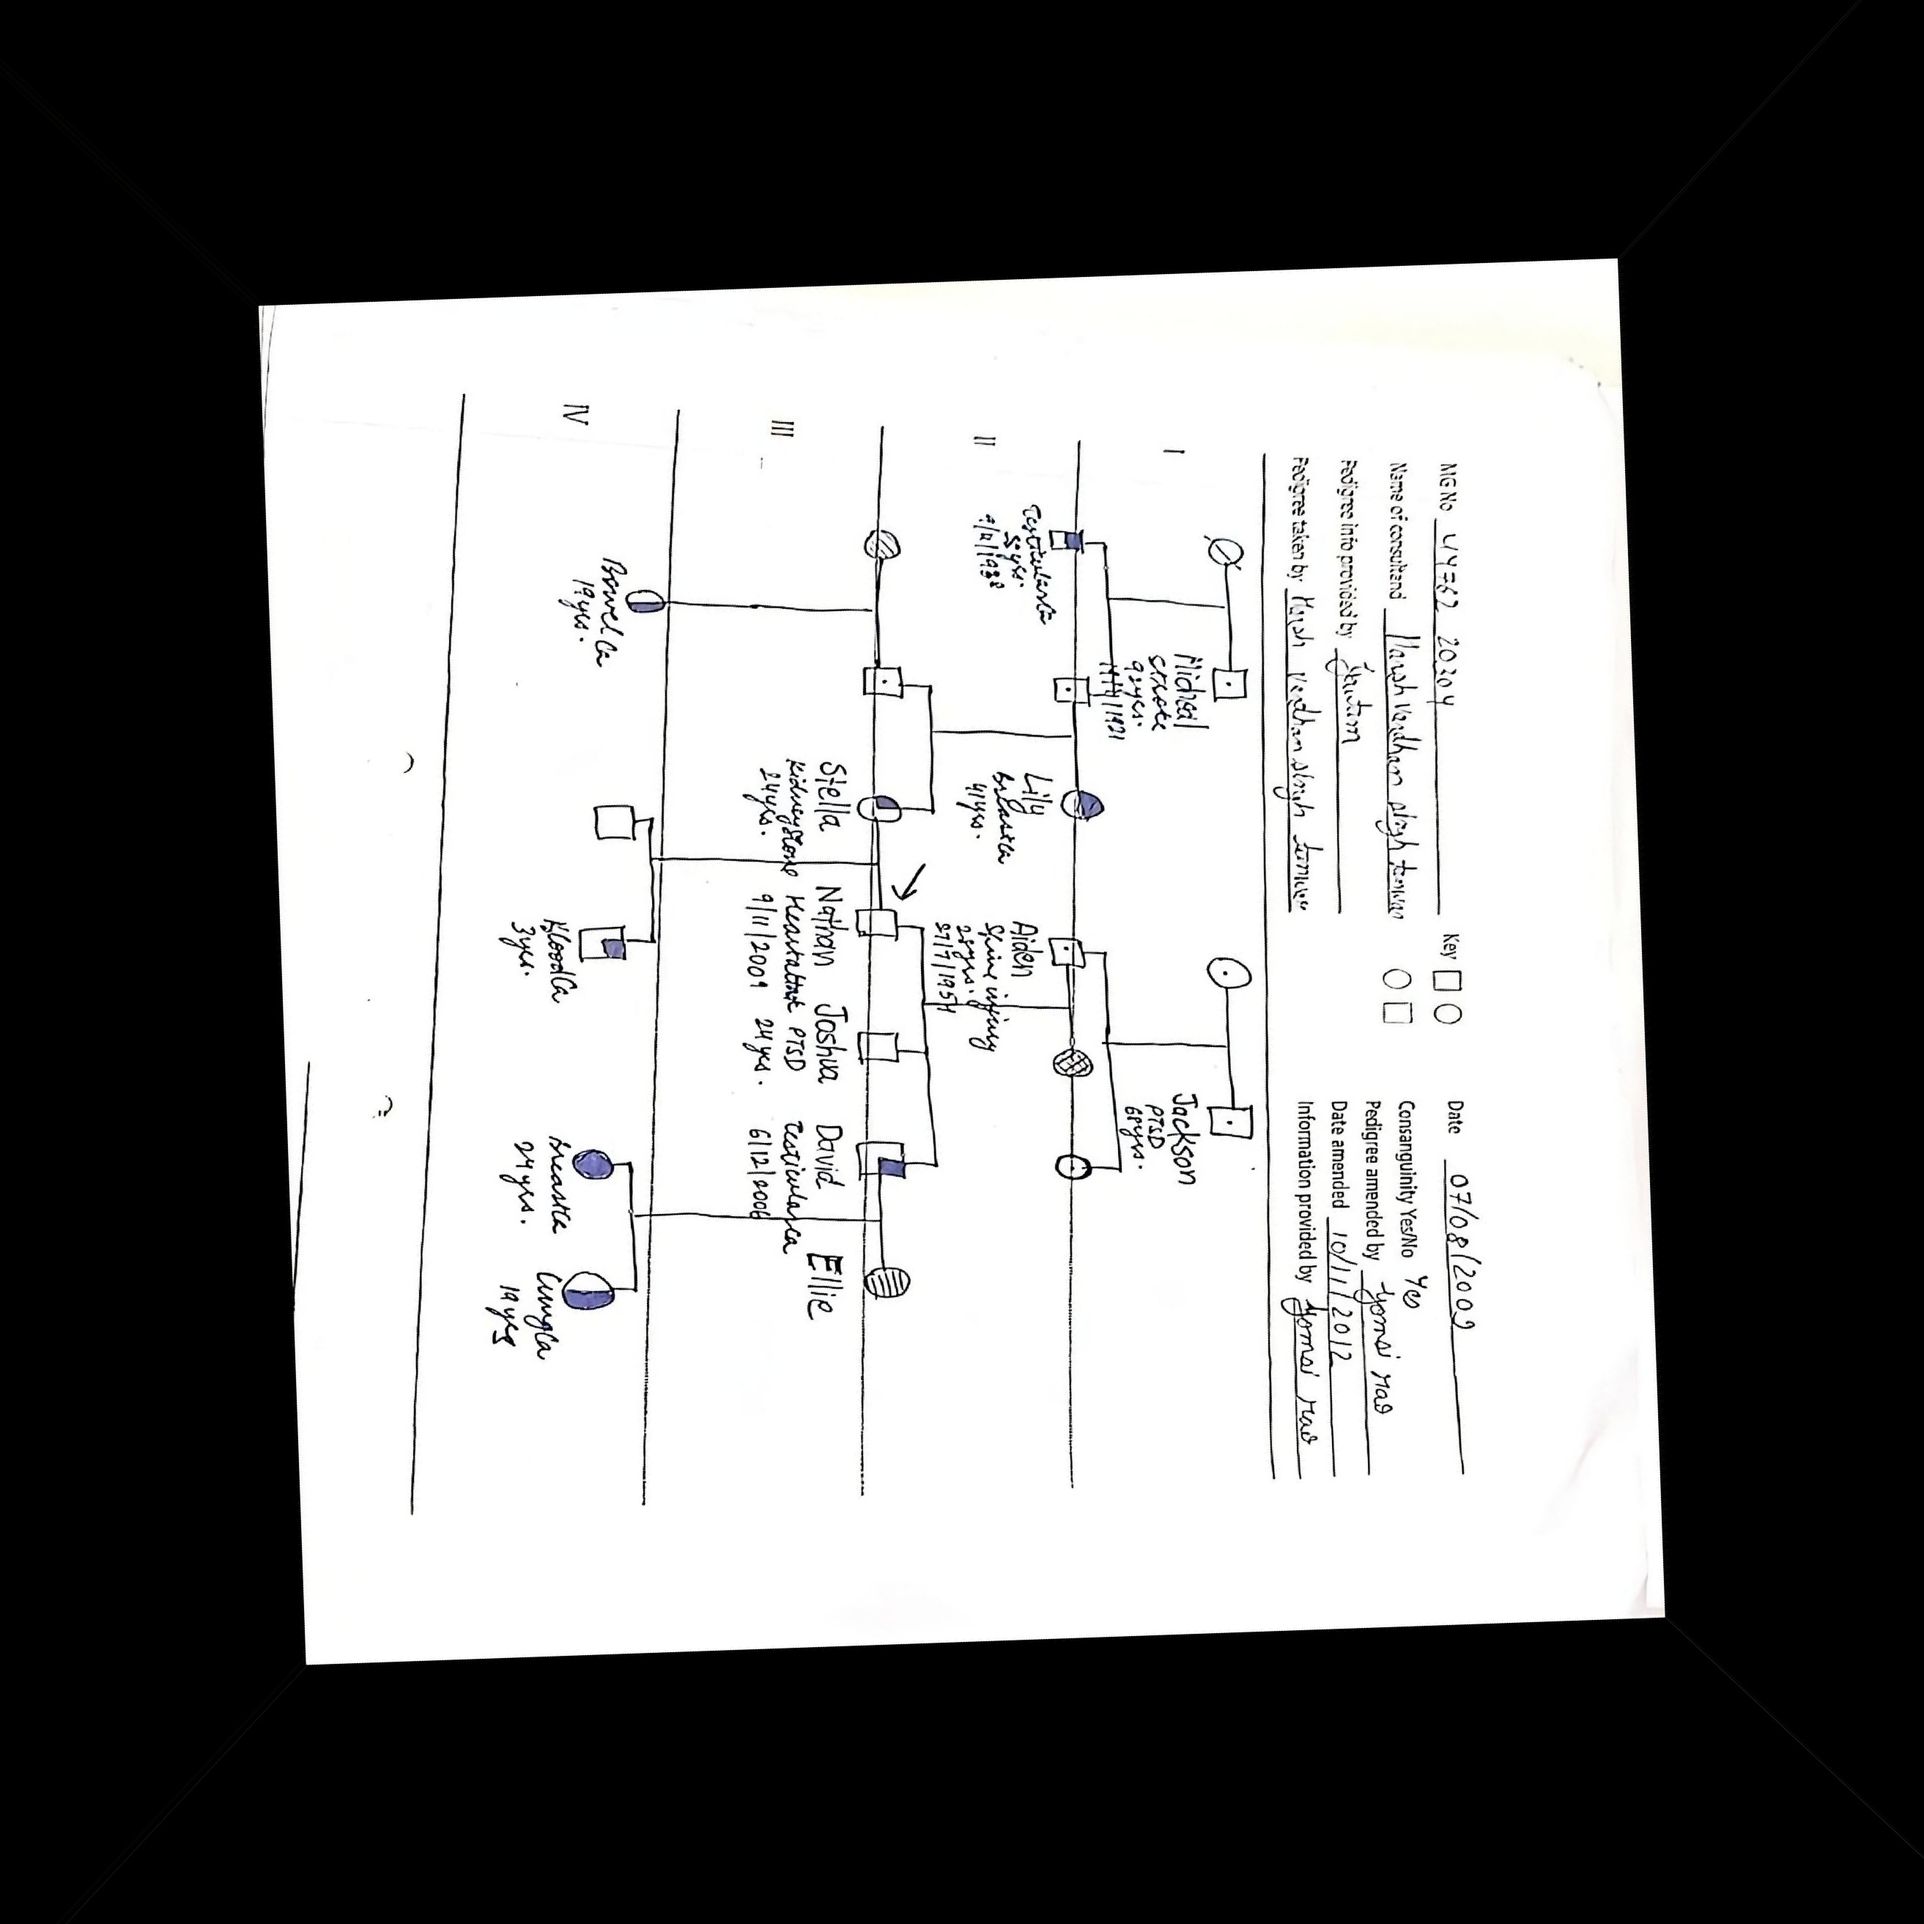
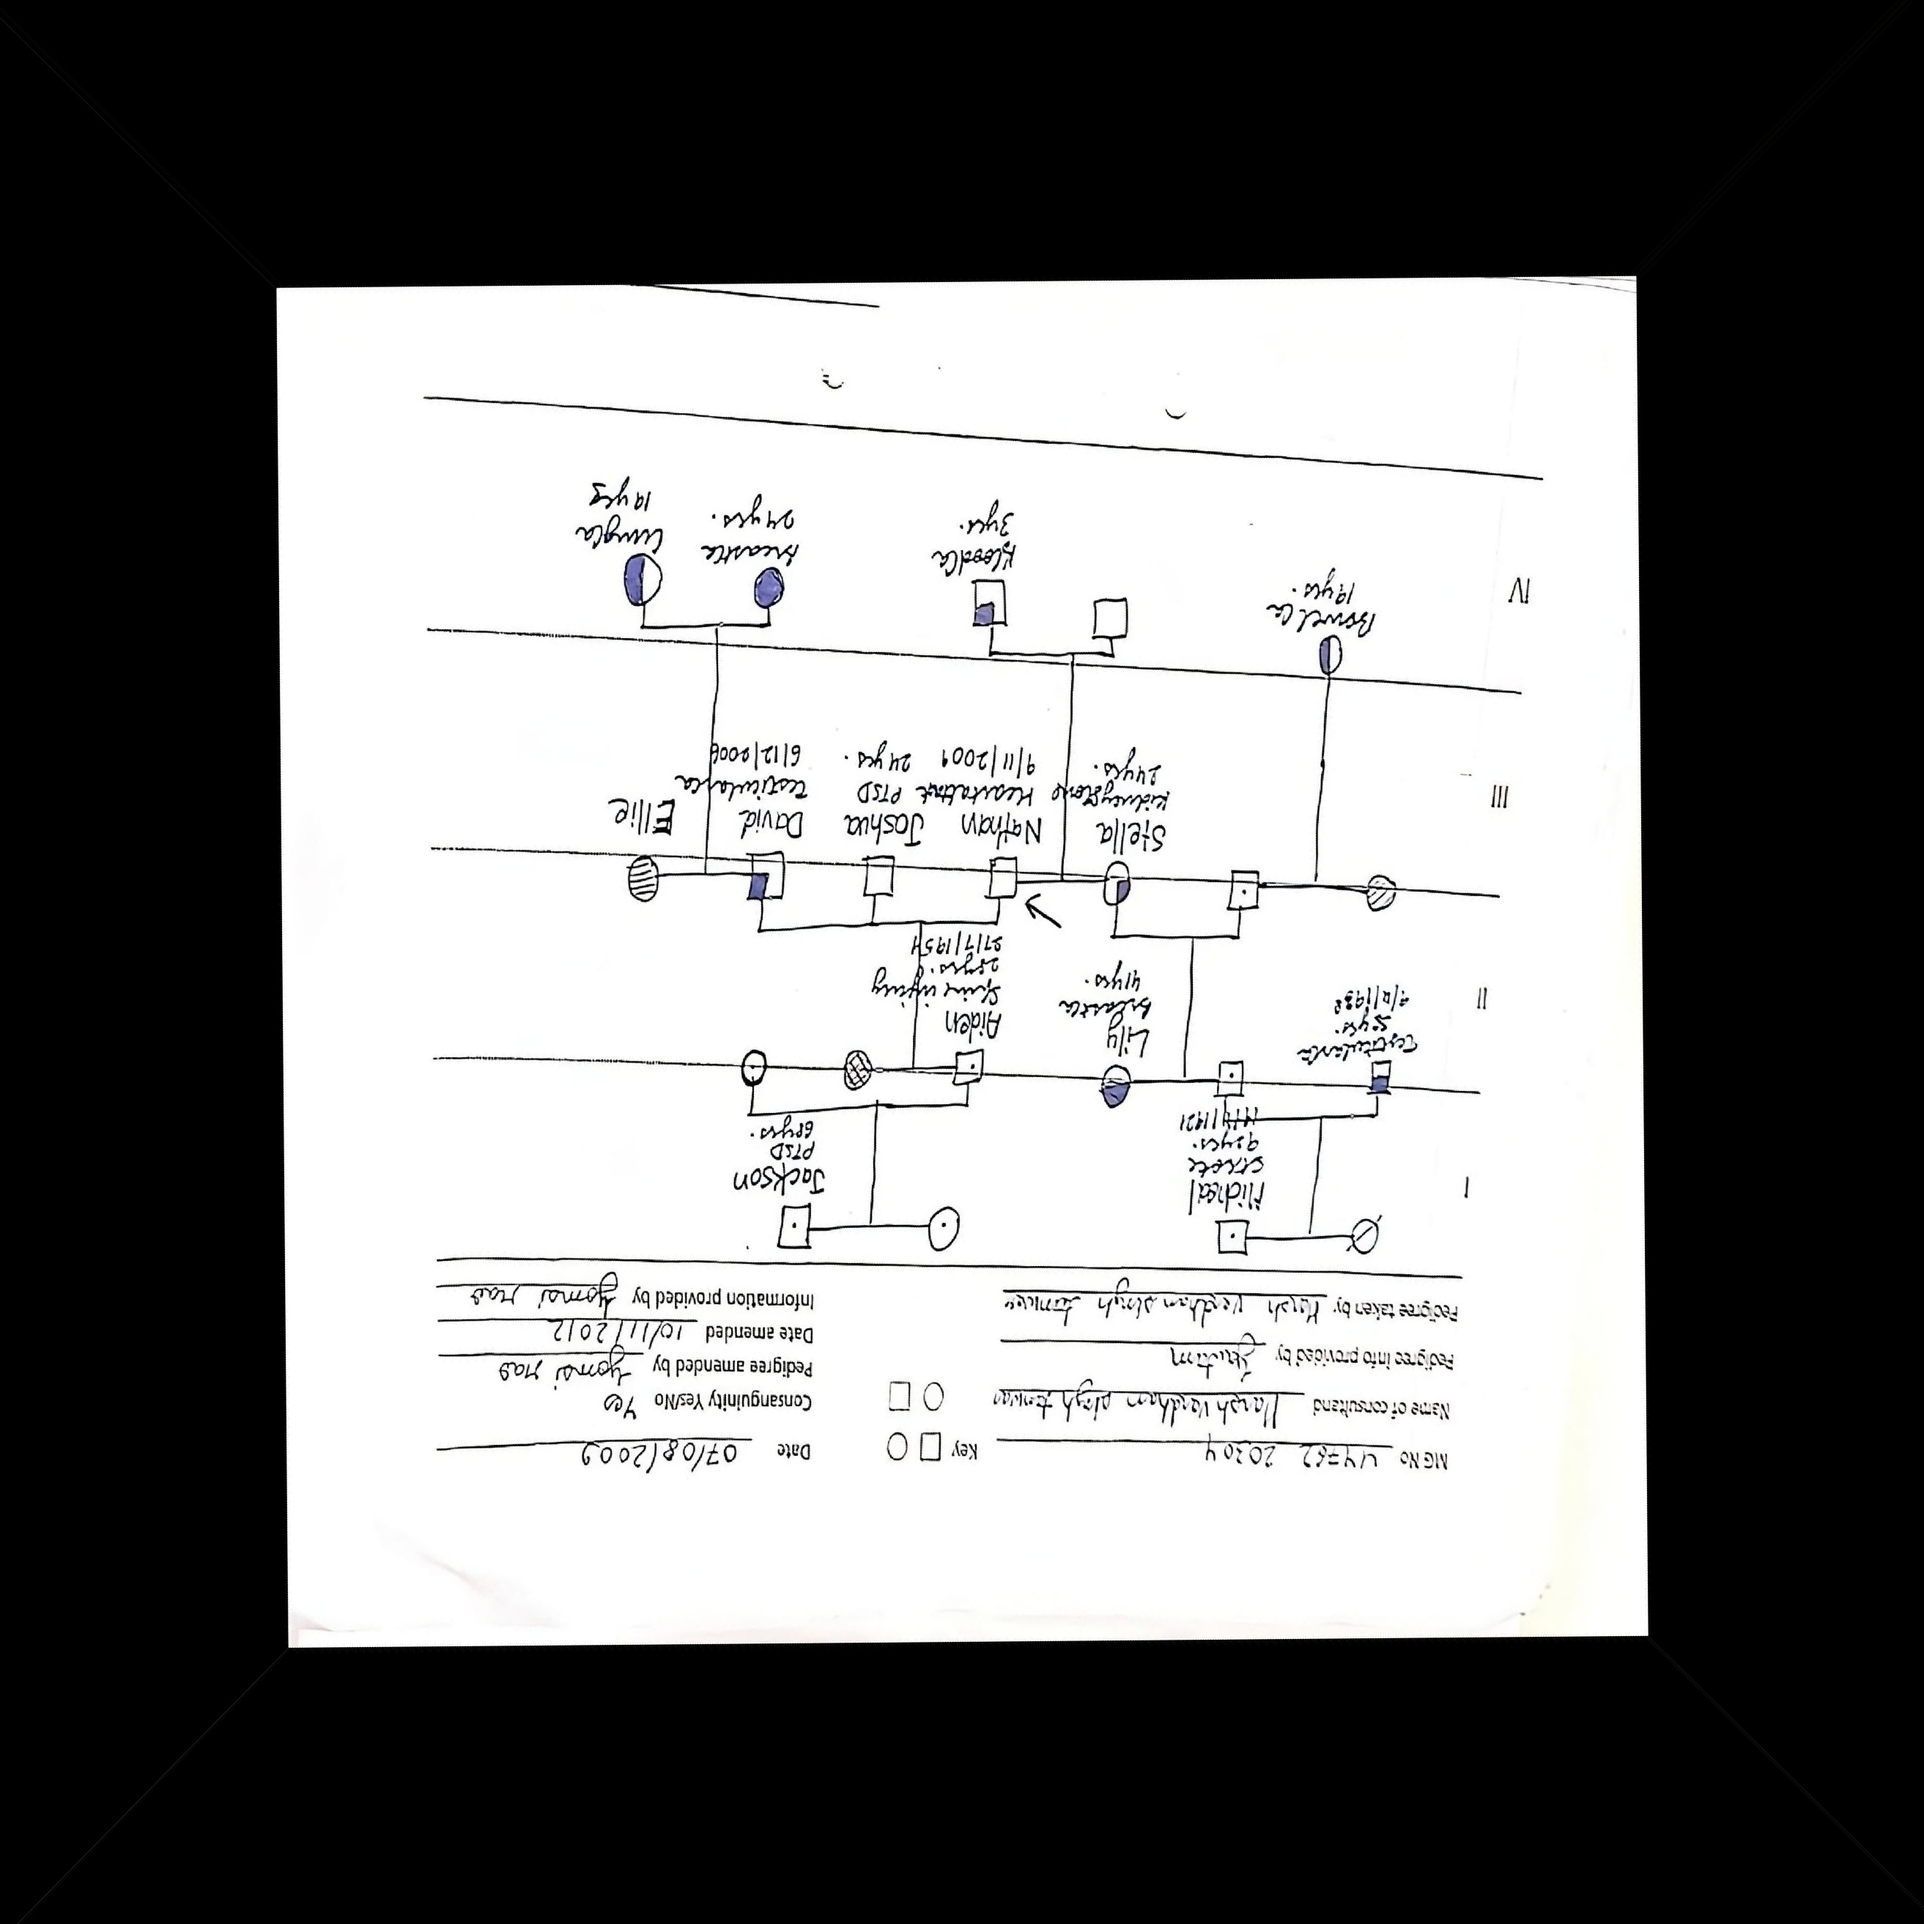
updated readme

diff --git a/app.py b/app.py
@@ -47,6 +47,7 @@ def upload_file():
 
     return redirect(request.url)
 
+
 def process_image(image_path):
     try:
         if not os.path.exists(image_path):
@@ -68,19 +69,17 @@ def process_image(image_path):
         except Exception as e:
             raise RuntimeError(f"Error in edge detection: {e}")
  
-        # Step 3: Improved Hough transform for skew detection that handles all angles
+        # Step 3: Improved Hough transform for skew detection
         detected_angle = None
+        corrected_angle = None
         try:
             lines = cv2.HoughLines(edges, 1, np.pi / 180, 200)
             
             if lines is not None and len(lines) > 0:
-                # Process all angles without range restriction
                 angles = []
                 for rho, theta in lines[:, 0]:
-                    # Convert to degrees and normalize to [-90, 90] range
                     angle_degrees = np.degrees(theta) - 90
                     
-                    # Normalize angle to proper range
                     if angle_degrees < -90:
                         angle_degrees += 180
                     elif angle_degrees > 90:
@@ -89,24 +88,32 @@ def process_image(image_path):
                     angles.append(angle_degrees)
                 
                 if angles:
-                    # Use a histogram approach to find the most common angle
                     hist, bins = np.histogram(angles, bins=180, range=(-90, 90))
                     most_common_angle_idx = np.argmax(hist)
-                    detected_angle = bins[most_common_angle_idx] + (bins[1] - bins[0])/2  # Use bin center
+                    detected_angle = bins[most_common_angle_idx] + (bins[1] - bins[0])/2
                     
                     print(f"Detected document rotation angle: {detected_angle:.2f} degrees")
                     
-                    # Apply rotation correction
                     (h, w) = img.shape[:2]
                     center = (w // 2, h // 2)
-                    M = cv2.getRotationMatrix2D(center, detected_angle, 1.0)
+
+                    # Correction logic: Keep angles between -45 and 45
+                    corrected_angle = detected_angle
+                    if detected_angle < -45:
+                        corrected_angle += 180
+                    elif detected_angle > 45:
+                        corrected_angle -= 180
+
+                    print(f"Corrected angle after normalization: {corrected_angle:.2f} degrees")
+                    
+                    M = cv2.getRotationMatrix2D(center, corrected_angle, 1.0)
                     img = cv2.warpAffine(img, M, (w, h), flags=cv2.INTER_LINEAR, 
-                                        borderMode=cv2.BORDER_REPLICATE)
+                                         borderMode=cv2.BORDER_REPLICATE)
         except Exception as e:
             print(f"Error in Hough transform: {e}")
             # Continue processing even if Hough transform fails
- 
-        # Step 4: OCR orientation detection as a backup/refinement
+
+        # Step 4: OCR orientation detection as backup
         ocr_angle = None
         try:
             osd = pytesseract.image_to_osd(Image.fromarray(img), output_type=pytesseract.Output.DICT)
@@ -115,22 +122,22 @@ def process_image(image_path):
             if ocr_angle not in [0, None]:
                 print(f"OCR detected orientation adjustment: {ocr_angle} degrees")
                 
-                # Only apply OCR rotation if significant and different from Hough detection
                 if abs(ocr_angle) >= 5:
                     (h, w) = img.shape[:2]
                     center = (w // 2, h // 2)
                     M = cv2.getRotationMatrix2D(center, -ocr_angle, 1.0)
                     img = cv2.warpAffine(img, M, (w, h), flags=cv2.INTER_LINEAR, 
-                                        borderMode=cv2.BORDER_REPLICATE)
+                                         borderMode=cv2.BORDER_REPLICATE)
         except pytesseract.TesseractNotFoundError:
             raise RuntimeError("Tesseract not found. Make sure it's installed and in your system PATH.")
         except Exception as e:
             print(f"OCR orientation detection failed (continuing without it): {e}")
- 
+
         # Step 5: Save result and return information
         try:
             angle_info = {
                 "hough_angle": round(detected_angle, 2) if detected_angle is not None else None,
+                "corrected_angle": round(corrected_angle, 2) if corrected_angle is not None else None,
                 "ocr_angle": ocr_angle
             }
             
@@ -143,6 +150,10 @@ def process_image(image_path):
  
     except Exception as err:
         raise RuntimeError(f"Image processing failed: {err}")
+
+
+
+
 
 @app.route('/uploads/<filename>')
 def uploaded_file(filename):

diff --git a/readme.md b/readme.md
@@ -1,0 +1,146 @@
+
+
+This is a Flask-based web application that detects and corrects the orientation of uploaded document images using computer vision and OCR techniques. It supports image uploads and visually returns both the original and correctly oriented versions along with the detected rotation angles.
+
+---
+
+## 🚀 Features
+
+* Upload `.jpg`, `.jpeg`, or `.png` images
+* Detect document skew using:
+
+  * **Edge detection + Hough Transform**
+  * **Tesseract OCR-based orientation detection** (as a fallback)
+* Automatically correct image orientation
+* Returns the angle details:
+
+  * Hough-detected angle
+  * Corrected final angle
+  * OCR-detected angle
+* Offers both web UI and API (`/check_angle`) for angle checks
+* Saves both original and corrected images for user reference
+
+---
+
+## ⚙ Technologies Used
+
+* Python + Flask
+* OpenCV (`cv2`)
+* NumPy
+* Tesseract OCR (`pytesseract`)
+* PIL (Python Imaging Library)
+* HTML templates (Jinja2)
+
+---
+
+## 🖼 Working Range
+
+The orientation detection and correction logic performs **accurately and reliably** for document images within the following ranges:
+
+✅ **Effective Working Angle Ranges:**
+
+* **-45 50 45°**
+
+⚠ **Outside this range**, results might vary due to noise or ambiguous edge detection.
+
+
+
+---
+
+## 🧠 How It Works
+
+1. **Edge Detection (Canny):** Highlights straight lines and document borders.
+2. **Hough Transform:** Finds the skew angle based on the detected lines.
+3. **Angle Normalization:** Ensures angles fall within a human-readable correction range.
+4. **Rotation Matrix Application:** Corrects the skew based on detected angle.
+5. **OCR Fallback:** Uses Tesseract OCR's OSD mode to refine or fix orientation if Hough detection fails.
+6. **Result Rendering:** Outputs both original and corrected images along with metadata.
+
+---
+
+## 📂 Folder Structure
+
+```
+📁 uploads/           # Stores uploaded and corrected images
+📄 app.py             # Main Flask server with logic
+📄 templates/
+   └── index.html     # Upload interface
+   └── result.html    # Displays results
+   └── error.html     # Handles error messages
+```
+
+---
+
+## 📦 Setup Instructions
+
+1. **Install Python packages**
+
+   ```bash
+   pip install -r requirements.txt
+   ```
+
+2. **Install Tesseract-OCR**
+
+   * Windows: [Download here](https://github.com/tesseract-ocr/tesseract/wiki)
+   * Linux:
+
+     ```bash
+     sudo apt install tesseract-ocr
+     ```
+
+3. **Run the Flask app**
+
+   ```bash
+   python app.py
+   ```
+
+4. **Navigate to**
+
+   ```
+   http://localhost:5000/
+   ```
+
+---
+
+## 🧪 API Endpoint
+
+**POST** `/check_angle`
+
+> Use this endpoint to retrieve only the angle information (for AJAX or headless use).
+
+### Request:
+
+* Form-data with image file (`file`)
+
+### Response:
+
+```json
+{
+  "success": true,
+  "angle_info": {
+    "hough_angle": -12.0,
+    "corrected_angle": -12.0,
+    "ocr_angle": 0
+  }
+}
+```
+
+---
+
+## ⚠ Limitations
+
+* May not perform well on:
+
+  * Heavily blurred or noisy images
+  * Images with no clear linear structure
+* Designed for **document-type inputs**, not general photos
+
+---
+
+## ✍ Author
+
+**Varun Upadhyay**
+
+---
+
+Let me know if you want me to create a `requirements.txt` file as well?
